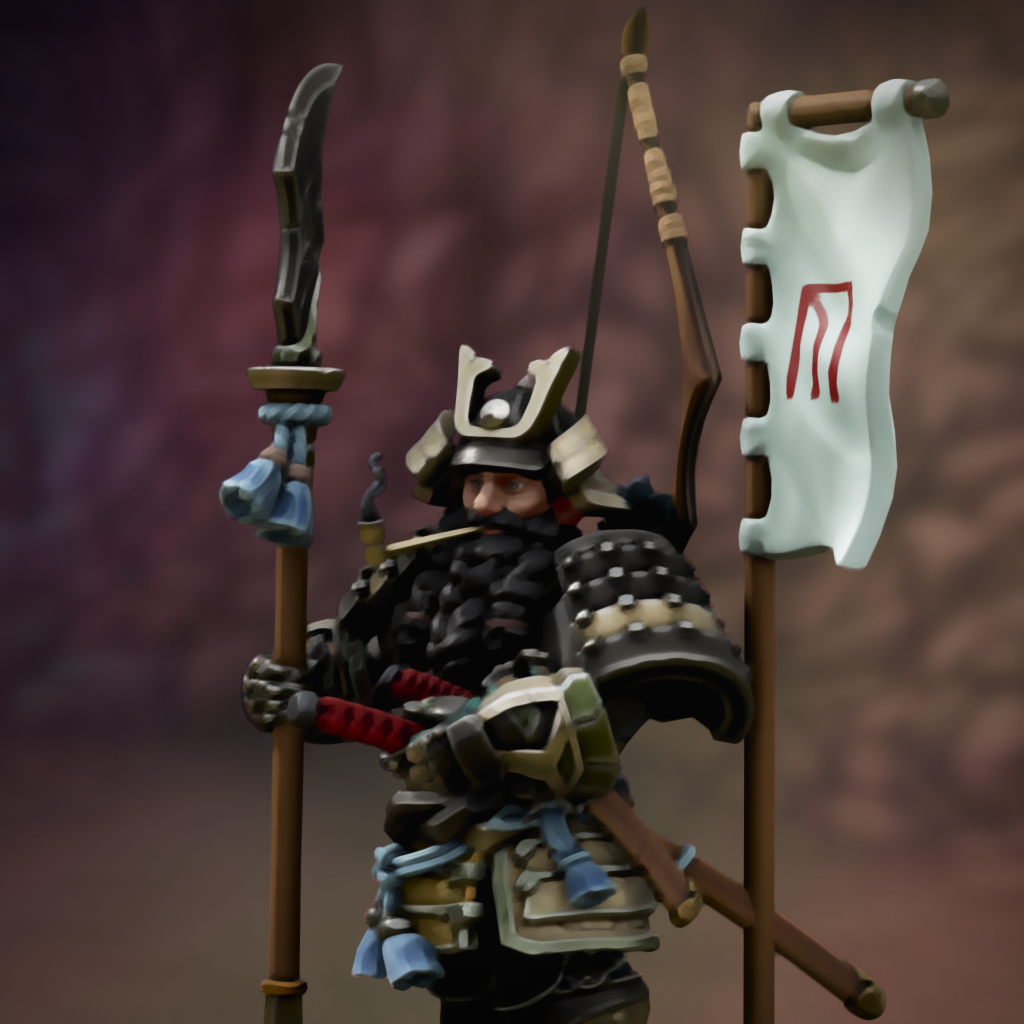
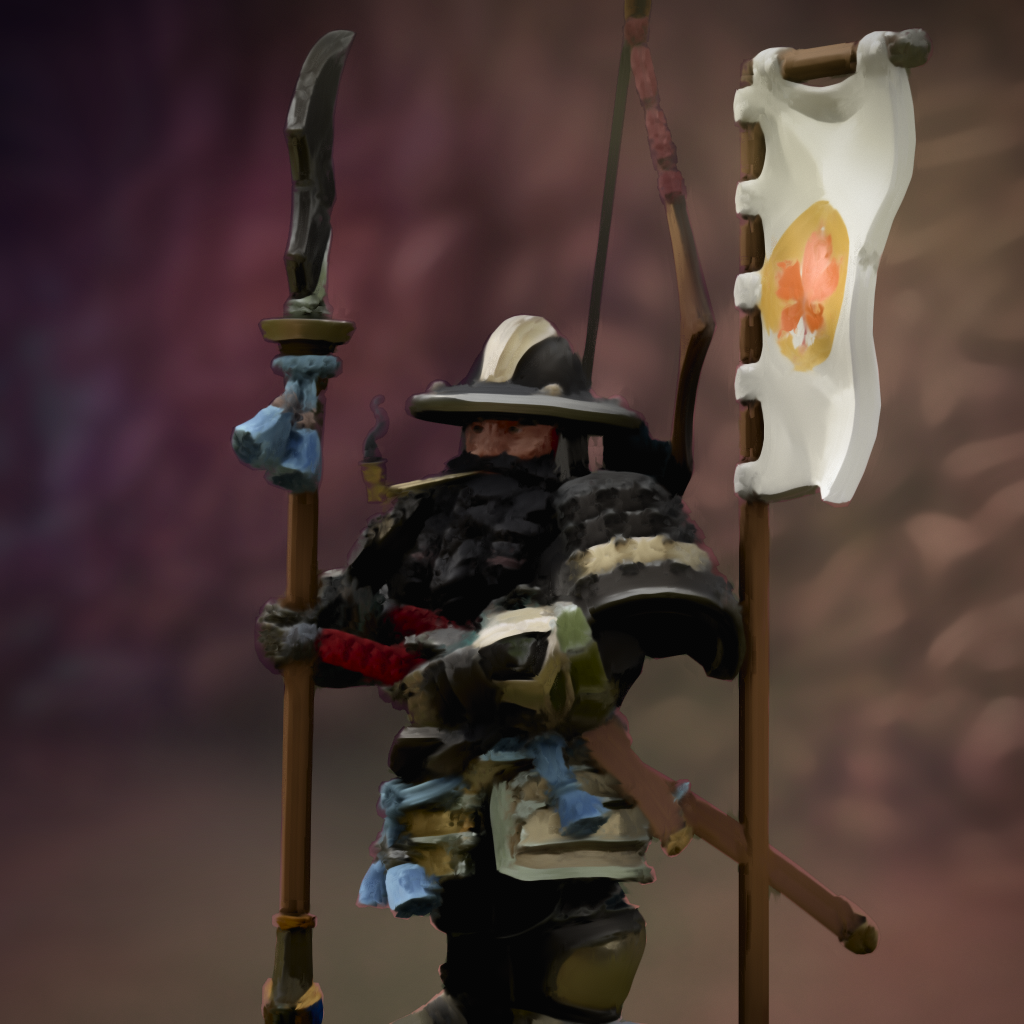
moved to customs.

Changed region(s): [[0.2188, 0.0, 0.9375, 1.0]]

diff --git a/README.md b/README.md
@@ -14,17 +14,127 @@ Yama Juunin has had a very tubulent history, the mountains have had many civil w
 Using that definition I will break this into groups. 
 
 ### Customs
+- **The three paths**
+  - The three paths are the heart of Yammabushi life: a philisophical trunity that governs all moral, social, and spiritual behavior. Every act, from combat to craftsmanship to meditation, is weighed against one's chosen path and its interpretation.
+- The Sanctity of Writing:
+  - To the Yammabushi, writing is not mere communication, it is manifestation. 
+  - Words, once inscribed, are believed to shape reality itself. Thus to write is to bind the world, and to be written about is to be immortalized. 
+  - Tenets:
+    - Writing is sacred and immutable. Altering text is seen as an act of hubris unless sanctioned by one's path elder. 
+    - Speech is transient, writing eternal. Oral debates and oaths are valued for passion, but word is reserved for truth. 
+    - Written emotion is dangerous but divine. Because written words outlive authors, emotional writings aree seen as echoes of the soul, rare but deeply moving. 
+  - Duels:
+    - When two Yammabushi vassals duel, both must write a *final poem*. A distilled expression of their life's philosophy and acceptance of fate. 
+    - These poems are often read aloud by witnesses before combat and preserved in communal archives. 
+    - Victory is both physical and spiritual: to defeat another's philosophy is to test your own against eternity. 
 
+---
+
+  - Writing privalages by path:
+
+  | Path | Cultural Relationship to Writing | Customary Practices | Spiritual Meaning | 
+  | ---- | -------------------------------- | ------------------- | ----------------- |
+  | Efficiency | Writing is a necessary act, tolerated rather than sacred. | Scribes record blueprints, alchemical formulae, and treatises. Misuse of this privilege may lead to a duel or challenge of skill (Creating a final figurine or invention). | Writing is a tool, precide, functional, and pure in purpose. |
+  | Peace | Writing is restricted, except for dictation or noble lineage. | Members often serve as recorders, scribes for hire, inscribing dictated epitaphs, contracts, or final poems for others. | Writing represents compassion, giving others a voice, but rarely one's own. |
+  | Honor | Writing is ritualistic, emotional,  and performed at moments of life or death | Final poems, oaths of cervice, and battle epistles are crafted with formal precision. | Writing is an offering; the soul's steel forged into words. |
+
+---
+
+  - Dictation and Class Dynamics
+    - Dictation is a privilege of wealth and status. The lower classes often pay a follower of Peace to record their dying words or family histories. 
+    - Dictation ceremonies are deeply emotional. Sometimes seen as the true moment of death, since one's final truth has been *"hammered into permenence."*
+    - This gives followers of the path of peace subtle social power: though they rarely write their own truths, they hold the pen that records others'. 
+  - Philisophical Implications:
+    - Writing symbolizes the dwarves' worldview: **"Nothing is easy, everything must be earned, and all things must be shaped."**
+    - To write is to forge meaning itself. 
+    - Their written records (poems, treatises, or epitaphs) are less about communication and more about leaving behind a perfectly tempered truth. 
+
+    ---
+
+- Death is engraved into the Yammabushi
+  - Isolation and Misunderstanding
+    - The Yammabushi are a people apart. Their mountain citadels and subterranean cities are distant, but it is their philosophy that isolates them the most. 
+    - To Outsiders, the Yammabushi appear calm and disciplined, yet sudden, decisive violence lurks beneath that serenity. A single insult to their Paths, or even an unintentional slight towards their customs, can end in blood. 
+    - Thus the Yama Juunin is known across the lands as the *Realm of Panthers*--Silent, composed, and deadly when provoked.
+    - Outsiders rarely grasp that for the Yammabushi, violence is not rage but correction. 
+    - An insult is not merely offensive; it is a fracture in harmony, and like a crack in metal it myst be struck, reforged, or broken away entirely. 
+  - The Normalcy of Death:
+    - Centuries of war, duels, and "Philosophical purges" have made death a daily presence. 
+    - The Yammabushi no longer treat it as a tragedy but as continuation. 
+    - Every death is a hammer blow in the forgin of their people's destiny. 
+      - Duels occur in open streets, often witnessed by kin or apprentices. The victors bow to the fallen, then to spectators who quietly return to theur business. 
+      - The slain are collected swiftly, often by the Quiet Hand: an order of undertakers belonging to the Path of Peace. 
+      - The scent of Iron and blood is said to cling to every city. Not from neglect, but from history itself. 
+    - Death no longer shocks; it reminds. 
+  - Cleanliness as Virtue
+    - Because blood and death are constant companions, cleanliness became not merely practical but moral. 
+    - A city that reeks of rot is not only unpleasant, it is seen as philisophically impure. 
+    - **Cleanliness Laws:**
+      - Public Hygien: Streets must be washed daily; corpses and waste removed within an hour of discovery. 
+      - Inspections: Local officials from the Path of Efficiency perform routine checks; failure to meet standards results in heavy fines or forced labor. 
+      - Religious Zeal: In rare cases, zealous lords mobilize troops against unclean towns, accusing them of betraying their Path.
+        - Dishonor: For staining the purity of the spirit (Honor)
+        - Disruption: For allowing pestilence to disturb balance (Path of Peace)
+        - Imperfection: For wasting resources or effort (Efficiency)
+      - To neglect cleanliness is to invite chaos.
+      - To the Yammabushi, a spotless street is the sign of a people who respect both life and death. 
+  - The Cultural Psychology of Death
+    > *"Death is not an end, but a lesson. Only the untempered break under its weight." --Yammabushi Proverb*
+    - The Yammabushi view life and death as part of the same forging process:
+      - Birth: Shaping of unrefined ore. 
+      - Life: The hammer's rhythm (choice, pain, purpose)
+      - Death: The cooling of meatal. The moment one's form is set, and their essence judged by the wualuty of their temper. 
+    - Even children learn this metaphor early. They are taught to treat every fallen warrior, craftsman, or philosopher not as lost but complete. 
+  - The Yammabushi are isolated, especially compared to recent history. Outsiders find it dificult to understand the culture, and even at times will inadvertantly insult or demean the philosophy of the Yammabushi around them. Often times outsiders are killed due to this, garnering the Yama Juunin as a land of panthers: calm, quiet, yet deadly and cunning. 
+  - due to the ammount of wars, minor conflicts, and philisophical duels leading to death, the people are rarely phased by death. If a duel happens in the streets, the witnesses (usually friends and familyu) will watch, but people will usually go about their days like it didn't happen. Seeing someone get killed is almost a weekly occurance, the cities and towns all have a disting iron scent of blood in the air. 
+    - Due to this, the people have (by necesity) become very clean. The streets are clean, and a town that doesn't clean their streets, tend to corpses and waste, can invoke heavy fines. In rare cases, when a local lord is particularly zealous to their path, they may mobalize troops against the town and accuse them of anathema to the path. (Letting disease run and disturb the peace, bringing dishoner to themselves, or being inefficient--imperfect.)
+
+  ---
+
+#### Rituals of Death and Burial:
+  - Among the Yammabushi, death is not the extinguishing of life, but the completion of tempering. 
+  - Each path treats death as a reflection of its philosophy, the final test of whether one's discipline held true under pressure. 
+  - Burial rites are less about mourning and more about honoring the form one achived in life. 
+
+- **Path of Honor:**
+    > *"To die as you lived. Unbroken. Unbent. Is to live forever." --Final Oath of the First Shogun*
+    - Those who follow the Path of Honor view death as the final proof of integrity. Their ceremonies are steeped in ritual precision, and even in death, they are expected to uphold composure. 
+    - Rituals:
+      - Final Oath: Before death (whether by duel, battle, or sickness) a follower of Honor declares a Final Oath. Often a single sentence carved into a stone tablet or engraved upon their weapon. 
+      - Cleansing of the Blade: Their weapon or armor is washed with their own blood, symbolizing the purification of both oath and self. 
+      - Entombment: The dead are sealed in stone crypts with their oath tablets. The two are never separated.
+      - Witnesses: Family and comrades stand silently, never weeping. To weep would imply the deceased failed to prepare for death. 
+    - Cultural Notes: 
+      - Their tombs are often inscribed only with symbols rather than names. A statement that the oath, not the self, is what endures. 
+      - Breaking the peace of a warrior's tomb is a capital crime; their oaths are still believed to bind even in death. 
+
+- **Path of Efficiency:**
+  > *"Perfection wastes nothing, not even the body." -- Exerpt from a Ledger of Merit. author's name unknown*
+  - To those on the Path of Efficiency, death is a resource, to be transformed, studied, put to purpose. 
+  - They view the corpse as another form of matter, subject to refinement. 
+  - Rituals:
+    - The Reduction: Bodies are cremated in carefully controlled alchemical furnaces. The ashes are mixed with lime and oil to create a fine resin used to seal tools, walls, or machines. 
+    - The Ledger of Merit: Before cremation, a bureaucrat or scholor records the deceased's lifetime achivements, innovations, or failures. This ledger determines where their ashes will be used. 
+    - No Monuments: Efficiency demands anonymity. Monuments are considered vanity unless they serve a function. 
+  - Cultural Notes: 
+    - Some great machines or city walls are said to hold the essence of thousands. literal blood and bone made useful.
+    - The path teaches that the closer one comes to perfect refinement in life, the fewer ashes remain after death. Some take this to an extreme, becoming aescetics.
+
+- **Path of Peace**
+  > *"As the mountain endures, so too must we learn to still ourselves." --Exerpt of <u>The Meditations</u>*
 ### Arts
 
 ### Social Institutions
-
+- List of the institutions so far.
+  - Most of the institutions are defined by the Paths. 
+  - Quiet Hand
+  - The smaller towns are similar to manorialism, so most judicial matters come from members of the estate.
+  - 
 ### Achievements
 
-## People:
-
-## Divinities:
-Rather than a pantheon of gods, the Yammabushi have been battered and bloodstained by centuries of conflict and war. Once the old empire took control, the dwarves were directed into *The Three Paths*. These paths are not just a frivolus religion that some dwarves follow and others don't. It's their way of life, these philosophies are worth dying for in their eyes and many do. Magistrates swear to serve a lord by publicly swearing to follow one of the paths. If they break the path they are killed, outcast, imprissoned, or ostricized from a community.
+## The Three Paths:
+![Banners-Of-The-Three](./Images/Three-Paths-Banners_2.png)
+> Once the old empire took control, the dwarves stalled their battleing and allowed their philosophy to evolve. Turning from a people who ask why and fight, and shift into people who ask why they fight. *The Three Paths*. These paths are not just a frivolus religion that some dwarves follow and others don't. It's their way of life, these philosophies are worth dying for in their eyes and many do. Magistrates swear to serve a lord by publicly swearing to follow one of the paths. If they break the path they are killed, outcast, imprissoned, or ostricized from a community.
 - **The Three Paths**
   - Path of Honor
   - Path of Efficiency
@@ -35,6 +145,11 @@ Through these paths the social order is built and maintained.
 ---
 
 ### Path of Honor:
+![Path-of-Honor-Dwarf](./Images/Yamma-Juunin-Dwarf.png) 
+> *“In the age when Kaigen’s banners cast long shadows over the valley, there were those who swore their lives to the Path of Service. Among them stood the Oathbearers — warriors who carved their vows into steel and soul alike. Their armor was not fashioned for glory but for endurance; their banners, not for pride but remembrance.*
+> *It is said that an Oathbearer’s armor was never removed in life, nor buried in death — for their oath transcended both. Each strike they endured was a prayer to endurance, each victory a hymn to duty. When one such warrior fell, his banner was folded and sealed with molten wax, its flame extinguished until another rose to bear the same creed." -Imperial Archive VII* 
+
+To the Yammabushi, honor is not spoken — it is carried.”
 - **Ideal:** Honor above all else
 - **Typical Social Roles:** Warriors, Judges, Magistrates 
 - **Cultural Flavor:** Oaths are forged into weapons, armor, or are engraved in a small stone tablet that the bearer takes with them everywhere. 
@@ -126,7 +241,9 @@ Ultimately, this is a feudal society. There are defined class systems, roles, an
 - Annual events, rituals, etiquette.
 
 ## References, Credits & Sources
-- Character Art:
-  - Yamma-Juunin-Dwarf.png is the intellectual property of HeroForge®. 
+- Hero Forge:
+  - Yamma-Juunin-Dwarf.png 
+  - Three-Paths-Banners.png
+  - Three-Paths-Banners-2.png  
 - Maps:
   - Yamma-Juunin-Blank.png is the intelectual property of Benjamin Jensen.
